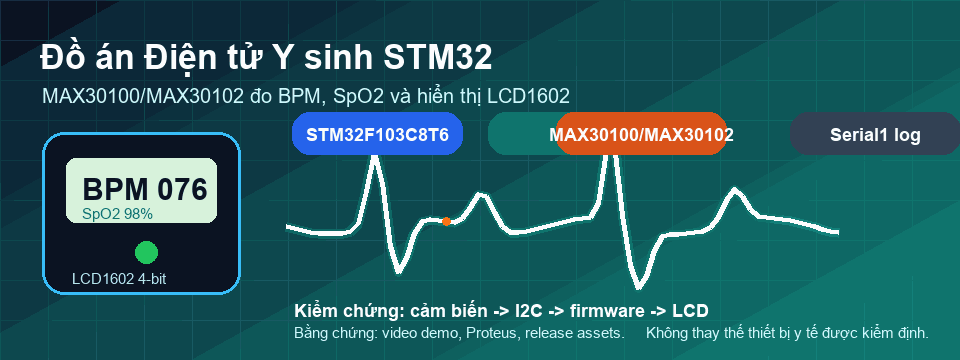
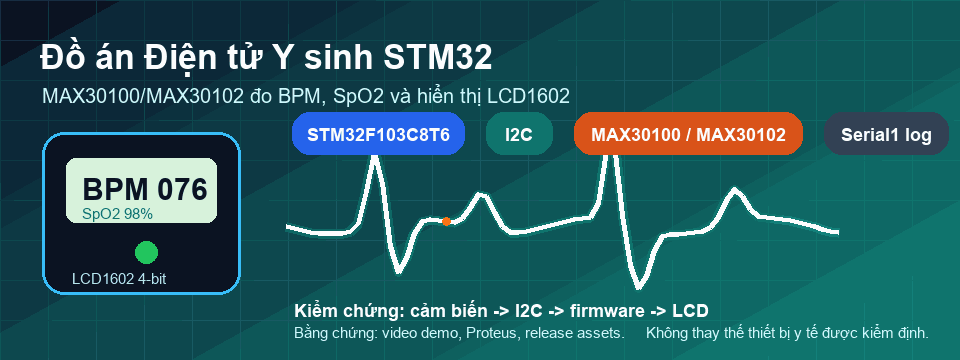
Fix pulse wave GIF label spacing

Changed region(s): [[0.5, 0.3056, 1.0, 0.4278], [0.3125, 0.3361, 0.4688, 0.3972]]

diff --git a/scripts/render_pulse_wave.py b/scripts/render_pulse_wave.py
@@ -104,15 +104,15 @@ def frame(idx: int) -> Image.Image:
             draw.ellipse((x - 4, y - 4, x + 4, y + 4), fill="#f97316")
 
     chips = [
-        ("STM32F103C8T6", 292, 112, "#2563eb"),
-        ("I2C", 488, 112, "#0f766e"),
-        ("MAX30100/MAX30102", 556, 112, "#d95319"),
-        ("Serial1 log", 790, 112, "#334155"),
+        ("STM32F103C8T6", 292, 112, 172, "#2563eb"),
+        ("I2C", 486, 112, 66, "#0f766e"),
+        ("MAX30100 / MAX30102", 574, 112, 228, "#d95319"),
+        ("Serial1 log", 824, 112, 124, "#334155"),
     ]
-    for text, x, y, color in chips:
-        round_rect(draw, (x, y, x + 170, y + 42), 18, color, None)
+    for text, x, y, w, color in chips:
+        round_rect(draw, (x, y, x + w, y + 42), 18, color, None)
         tw = draw.textlength(text, font=FONT_LABEL)
-        draw.text((x + (170 - tw) / 2, y + 12), text, font=FONT_LABEL, fill="#ffffff")
+        draw.text((x + (w - tw) / 2, y + 12), text, font=FONT_LABEL, fill="#ffffff")
 
     draw.text((294, 300), "Kiểm chứng: cảm biến -> I2C -> firmware -> LCD", font=FONT_LABEL, fill="#ffffff")
     draw.text((294, 324), "Bằng chứng: video demo, Proteus, release assets.", font=FONT_SMALL, fill="#cffafe")

diff --git a/RELEASE_NOTES.md b/RELEASE_NOTES.md
@@ -1,3 +1,22 @@
+# v1.2.1 - Sửa spacing GIF pulse-wave
+
+Ngày phát hành: 2026-05-17
+
+## Mục tiêu
+
+Phiên bản này sửa lỗi visual trong `assets/pulse-wave.gif`: nhãn **MAX30100 / MAX30102** ở hàng chip bị hẹp, làm chữ tràn sát mép box khi hiển thị trên GitHub.
+
+## Điểm mới
+
+- Nới rộng chip `MAX30100 / MAX30102` và chuyển layout chip sang chiều rộng riêng cho từng nhãn.
+- Render lại `assets/pulse-wave.gif` và `assets/pulse-wave-preview.png`.
+- Giữ profile README dùng tag mới để tránh cache asset cũ ở `v1.2.0`.
+
+## Kiểm tra
+
+- Preview GIF không còn chữ tràn khỏi box `MAX30100 / MAX30102`.
+- Kích thước GIF giữ ở 960 x 360 và 42 frame.
+
 # v1.2.0 - Nâng cấp portfolio Điện tử Y sinh STM32
 
 Ngày phát hành: 2026-05-17